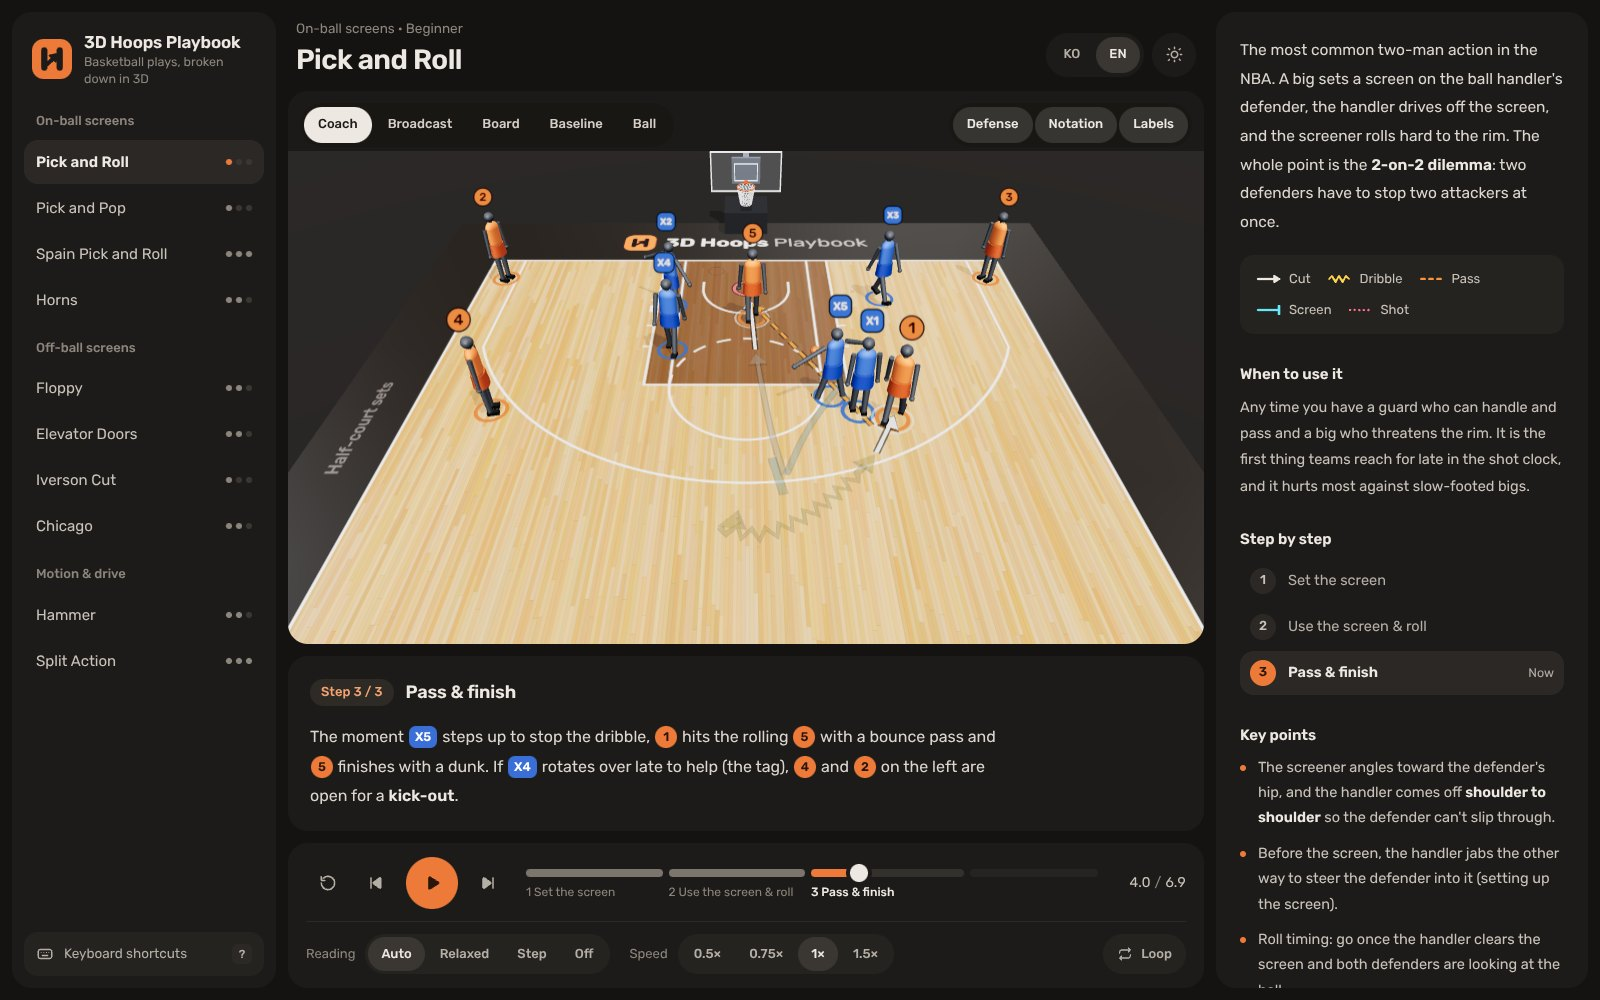
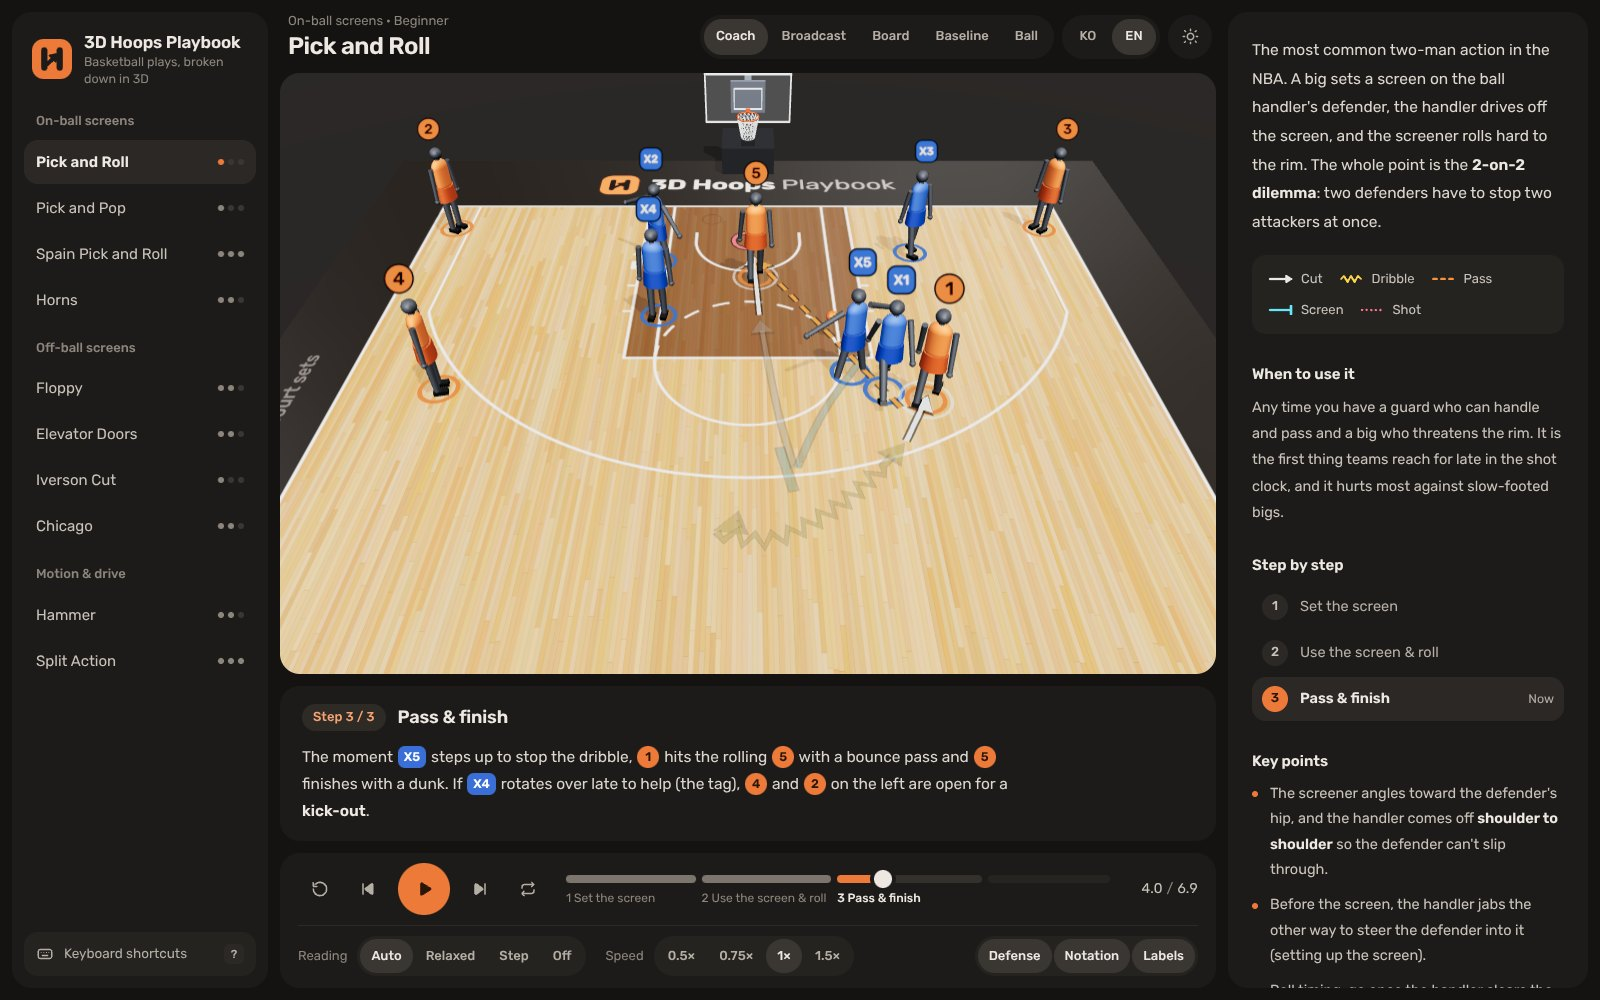
Give the 3D court its height back
The redesign shrank the court canvas by 20-47% (1440x900: 534 -> 423px,
1366x768: 402 -> 241px, phone: 439 -> 234px) because of the camera strip
above the canvas, a taller caption and controls, and a width-based phone
viewport.

- Move the camera switch back into the header row and the display
  toggles into the settings row; nothing overlaps the court.
- Loop becomes an icon toggle next to the playback buttons.
- Compact header (smaller title, meta hidden at <=1280px), caption and
  controls; slightly narrower side panels at <=1440px.
- Phone viewport is 52vh again, as before the redesign; long play
  titles wrap instead of being cut off.

Court height now: 1440x900 528px, 1366x768 396px, 1280x800 383px,
phone 439px.

Claude-Session: https://claude.ai/code/session_011vAZbn45stQ4uPhr3cHpNs

diff --git a/css/style.css b/css/style.css
@@ -26,12 +26,6 @@
   --seg-on-shadow: none;
   --tseg-on: #3a3632;
   --tseg-on-text: #ede8e1;
-  --overlay: rgba(24, 22, 20, 0.82);
-  --overlay-text: #d4cec6;
-  --overlay-off: #8c857c;
-  --overlay-on: #ede8e1;
-  --overlay-on-text: #1d1b19;
-  --overlay-toggle: rgba(237, 232, 225, 0.14);
   --track: #34302c;
   --track-done: #7c756d;
   --track-tail: #262421;
@@ -72,12 +66,6 @@
   --seg-on-shadow: 0 1px 2px rgba(30, 29, 27, 0.14);
   --tseg-on: #1e1d1b;
   --tseg-on-text: #ffffff;
-  --overlay: rgba(255, 255, 255, 0.9);
-  --overlay-text: #3a3835;
-  --overlay-off: #6f6b65;
-  --overlay-on: #1e1d1b;
-  --overlay-on-text: #ffffff;
-  --overlay-toggle: #ebe9e5;
   --track: #e3e1dd;
   --track-done: #8e8a84;
   --track-tail: #eceae7;
@@ -120,7 +108,7 @@ kbd {
 
 #app {
   display: grid;
-  grid-template-columns: 264px minmax(0, 1fr) 372px;
+  grid-template-columns: 256px minmax(0, 1fr) 360px;
   gap: 12px;
   padding: 12px;
   height: 100vh;
@@ -136,7 +124,7 @@ kbd {
   white-space: nowrap; transition: background-color 150ms var(--ease), color 150ms var(--ease);
 }
 .seg button:hover { color: var(--text); }
-.seg button.on { background: var(--seg-on); color: var(--seg-on-text); box-shadow: var(--seg-on-shadow); }
+.seg button.on, .seg button[aria-pressed="true"] { background: var(--seg-on); color: var(--seg-on-text); box-shadow: var(--seg-on-shadow); }
 
 .round-btn {
   display: grid; place-items: center; width: 44px; height: 44px; flex: none; border-radius: 50%;
@@ -185,35 +173,25 @@ kbd {
 #stage { display: flex; flex-direction: column; gap: 12px; min-width: 0; min-height: 0; }
 
 .toolbar {
-  display: flex; align-items: flex-end; justify-content: space-between; gap: 16px;
-  padding: 6px 8px 2px;
+  display: flex; align-items: center; justify-content: space-between; gap: 8px 16px;
+  padding: 0 4px 0 8px;
 }
 .play-head { min-width: 0; }
-.play-meta { margin: 0; font-size: 13.5px; color: var(--text-3); }
-.play-head h2 { margin: 2px 0 0; font-size: 28px; font-weight: 600; letter-spacing: -0.02em; line-height: 1.25; }
+.play-meta { margin: 0; font-size: 13px; line-height: 1.4; color: var(--text-3); }
+.play-head h2 { margin: 1px 0 0; font-size: 24px; font-weight: 600; letter-spacing: -0.02em; line-height: 1.25; white-space: nowrap; overflow: hidden; text-overflow: ellipsis; }
 .tool-right { display: flex; align-items: center; gap: 8px; }
 .toolbar .seg { padding: 4px; background: var(--panel); }
 .toolbar .seg button { min-height: 36px; min-width: 44px; padding: 0 12px; }
 .toolbar .seg button.on { background: var(--tseg-on); color: var(--tseg-on-text); box-shadow: none; }
 
-/* 3D 뷰 카드: 위쪽 띠에 카메라 / 표시 옵션, 그 아래 캔버스.
-   띠와 캔버스 배경이 같은 색이라 버튼이 코트 위에 떠 있는 것처럼 보이지만 선수를 가리지 않는다. */
+/* 3D 뷰 카드: 코트 위에는 아무 컨트롤도 올리지 않는다 (모서리 선수를 가리지 않도록) */
 .view {
-  flex: 1; min-height: 0; display: flex; flex-direction: column;
+  position: relative; flex: 1; min-height: 0;
   border-radius: var(--r-xl); overflow: hidden; background: var(--scene);
   transition: background-color 250ms var(--ease);
 }
-#viewport { position: relative; flex: 1; min-height: 0; overflow: hidden; background: var(--scene); }
-#viewport canvas { position: absolute; inset: 0; display: block; width: 100%; height: 100%; touch-action: none; }
-.view-tools { order: -1; display: flex; flex-wrap: wrap; align-items: flex-start; gap: 8px; padding: 12px 12px 4px; }
-.view-tools .seg { padding: 4px; background: var(--overlay); }
-.view-tools .seg button { min-height: 36px; padding: 0 14px; color: var(--overlay-text); }
-.view-tools .seg button:hover { color: var(--text); }
-.cam-bar button.on { background: var(--overlay-on); color: var(--overlay-on-text); box-shadow: none; }
-.cam-bar button.on:hover { color: var(--overlay-on-text); }
-.toggles { margin-left: auto; }
-.toggles button[aria-pressed="true"] { background: var(--overlay-toggle); color: var(--text); }
-.toggles button[aria-pressed="false"] { color: var(--overlay-off); text-decoration: line-through; text-decoration-thickness: 1px; }
+#viewport { position: absolute; inset: 0; overflow: hidden; }
+#viewport canvas { display: block; width: 100%; height: 100%; touch-action: none; }
 
 #score-pop {
   position: absolute; left: 50%; top: 36%; transform: translate(-50%, -50%) scale(0.7);
@@ -230,7 +208,7 @@ kbd {
 #loading.hide { opacity: 0; pointer-events: none; }
 
 /* 설명(캡션) */
-#caption { padding: 18px 22px 20px; min-height: 132px; }
+#caption { padding: 14px 22px 16px; min-height: 112px; }
 .cap-top { display: flex; align-items: center; gap: 12px; min-height: 36px; flex-wrap: wrap; }
 .cap-step {
   flex: none; padding: 3px 11px; border-radius: 999px; background: var(--accent-soft);
@@ -253,7 +231,7 @@ kbd {
 }
 #btn-skip:hover { filter: brightness(1.12); }
 #btn-skip kbd { background: var(--panel); }
-#cap-text { margin: 12px 0 0; color: var(--text-body); font-size: 16px; line-height: 1.85; max-width: 68ch; }
+#cap-text { margin: 8px 0 0; color: var(--text-body); font-size: 15.5px; line-height: 1.75; max-width: 72ch; }
 #cap-text b, .summary b, .block b, .bullets b { color: var(--text); font-weight: 600; }
 
 /* 문장 속 선수 칩 */
@@ -265,7 +243,7 @@ kbd {
 .pc.d { background: var(--def); color: #fff; border-radius: 7px; min-width: 26px; }
 
 /* 재생 컨트롤 */
-.controls { display: flex; flex-direction: column; gap: 12px; padding: 14px 18px; }
+.controls { display: flex; flex-direction: column; gap: 10px; padding: 10px 18px 12px; }
 #transport { display: flex; align-items: center; gap: 16px; }
 .t-buttons { display: flex; gap: 4px; align-items: center; }
 .icon {
@@ -276,6 +254,8 @@ kbd {
 .icon:hover { background: var(--raised); color: var(--text); }
 .icon.play { width: 52px; height: 52px; background: var(--accent); color: var(--on-accent); margin: 0 4px; }
 .icon.play:hover { background: var(--accent); color: var(--on-accent); transform: scale(1.04); }
+.icon.loop svg { width: 18px; height: 18px; }
+.icon.loop[aria-pressed="true"] { background: var(--accent-soft); color: var(--accent-text); }
 
 .timeline { position: relative; flex: 1; min-width: 160px; height: 40px; cursor: pointer; touch-action: none; }
 .tl-segs { position: absolute; inset: 0; display: flex; gap: 6px; }
@@ -302,18 +282,13 @@ kbd {
 /* 재생 설정 */
 #settings {
   display: flex; align-items: center; gap: 10px 20px; flex-wrap: wrap;
-  padding-top: 12px; border-top: 1px solid var(--line);
+  padding-top: 10px; border-top: 1px solid var(--line);
 }
+#settings .seg button { padding: 0 11px; }
+.toggles { margin-left: auto; }
+.toggles button[aria-pressed="false"] { color: var(--text-3); text-decoration: line-through; text-decoration-thickness: 1px; }
 .set-group { display: flex; align-items: center; gap: 10px; }
 .set-label { font-size: 13px; color: var(--text-3); white-space: nowrap; }
-.loop-btn {
-  margin-left: auto; display: inline-flex; align-items: center; gap: 8px; min-height: 40px; padding: 0 14px;
-  border-radius: 999px; background: var(--seg); color: var(--text-2); font-size: 13px; font-weight: 500;
-  transition: background-color 150ms var(--ease), color 150ms var(--ease);
-}
-.loop-btn svg { width: 16px; height: 16px; }
-.loop-btn:hover { color: var(--text); }
-.loop-btn[aria-pressed="true"] { background: var(--accent-soft); color: var(--accent-text); }
 
 /* ───────── Info panel ───────── */
 #info { overflow-y: auto; padding: 24px 24px 28px; min-height: 0; }
@@ -372,9 +347,13 @@ kbd {
 .keys-list dd { margin: 0; font-size: 14px; color: var(--text-sub); }
 
 /* ───────── Responsive ───────── */
-@media (max-width: 1360px) {
-  #app { grid-template-columns: 240px minmax(0, 1fr) 340px; }
-  .view-tools .seg button { padding: 0 11px; }
+@media (max-width: 1440px) {
+  #app { grid-template-columns: 236px minmax(0, 1fr) 328px; }
+  .toolbar .cam-bar button { padding: 0 10px; }
+}
+@media (max-width: 1280px) {
+  .play-meta { display: none; }
+  .play-head h2 { font-size: 22px; }
 }
 @media (max-width: 1100px) {
   #app { display: flex; flex-direction: column; height: auto; }
@@ -394,25 +373,23 @@ kbd {
   .play-item:hover { background: var(--raised-2); }
   .play-item.active, .play-item.active:hover { background: var(--text); color: var(--bg); font-weight: 500; }
   .view { flex: none; height: 60vh; min-height: 320px; }
+  .toolbar { padding: 0 4px; }
+  .play-meta { display: block; }
   #info { overflow: visible; padding: 22px 18px 28px; }
 }
 @media (max-width: 680px) {
   #app { gap: 10px; }
   .brand-sub { display: none; }
   .brand-mark { width: 34px; height: 34px; }
-  .toolbar { padding: 2px 4px 0; align-items: center; }
-  .play-head h2 { font-size: 22px; }
-  .view { height: auto; min-height: 0; gap: 8px; overflow: visible; border-radius: 0; background: none; }
-  #viewport { flex: none; height: 60vw; min-height: 220px; border-radius: 18px; }
-  .view-tools {
-    order: 0; flex-wrap: nowrap; overflow-x: auto; scrollbar-width: none;
-    margin: 0 -12px; padding: 0 12px;
-  }
-  .view-tools::-webkit-scrollbar { display: none; }
-  .view-tools .seg { flex: none; background: var(--panel); }
+  .toolbar { flex-wrap: wrap; }
+  .play-head { flex: 1; }
+  .play-head h2 { font-size: 22px; white-space: normal; }
+  .tool-right { display: contents; }
+  .toolbar .cam-bar { order: 3; flex: 1 0 100%; overflow-x: auto; scrollbar-width: none; }
+  .toolbar .cam-bar::-webkit-scrollbar { display: none; }
+  .toolbar .cam-bar button { flex: 1 0 auto; padding: 0 10px; }
+  .view { height: 52vh; min-height: 300px; border-radius: 18px; }
   .toggles { margin-left: 0; }
-  .toggles button[aria-pressed="true"] { background: var(--raised-2); }
-  .cam-bar button.on { background: var(--tseg-on); color: var(--tseg-on-text); }
   #caption { padding: 14px 16px 16px; border-radius: 18px; }
   #cap-title { font-size: 16.5px; }
   #cap-text { font-size: 15px; line-height: 1.75; }
@@ -426,7 +403,6 @@ kbd {
   .time { min-width: 0; }
   #settings { gap: 10px 16px; }
   .set-group { width: 100%; justify-content: space-between; }
-  .loop-btn { margin-left: 0; }
   #score-pop { font-size: 64px; }
 }
 @media (prefers-reduced-motion: reduce) {

diff --git a/index.html b/index.html
@@ -83,6 +83,13 @@
           <h2 id="hud-title"></h2>
         </div>
         <div class="tool-right">
+          <div class="seg cam-bar" role="group" data-i18n-aria="aria.camera">
+            <button data-cam="coach" class="on" data-i18n="cam.coach" data-i18n-title="cam.coach.t"></button>
+            <button data-cam="broadcast" data-i18n="cam.broadcast" data-i18n-title="cam.broadcast.t"></button>
+            <button data-cam="top" data-i18n="cam.top" data-i18n-title="cam.top.t"></button>
+            <button data-cam="baseline" data-i18n="cam.baseline" data-i18n-title="cam.baseline.t"></button>
+            <button data-cam="follow" data-i18n="cam.follow" data-i18n-title="cam.follow.t"></button>
+          </div>
           <div class="seg lang-bar" role="group" data-i18n-aria="aria.lang">
             <button data-lang="ko" title="한국어" lang="ko">KO</button>
             <button data-lang="en" title="English" lang="en">EN</button>
@@ -95,20 +102,6 @@
         <div id="viewport">
           <div id="score-pop" aria-live="polite"></div>
           <div id="loading" data-i18n="loading"></div>
-        </div>
-        <div class="view-tools">
-          <div class="seg cam-bar" role="group" data-i18n-aria="aria.camera">
-            <button data-cam="coach" class="on" data-i18n="cam.coach" data-i18n-title="cam.coach.t"></button>
-            <button data-cam="broadcast" data-i18n="cam.broadcast" data-i18n-title="cam.broadcast.t"></button>
-            <button data-cam="top" data-i18n="cam.top" data-i18n-title="cam.top.t"></button>
-            <button data-cam="baseline" data-i18n="cam.baseline" data-i18n-title="cam.baseline.t"></button>
-            <button data-cam="follow" data-i18n="cam.follow" data-i18n-title="cam.follow.t"></button>
-          </div>
-          <div class="seg toggles" role="group" data-i18n-aria="aria.display">
-            <button id="tg-def" aria-pressed="true" data-i18n="tg.def" data-i18n-title="tg.def.t"></button>
-            <button id="tg-notes" aria-pressed="true" data-i18n="tg.notes" data-i18n-title="tg.notes.t"></button>
-            <button id="tg-labels" aria-pressed="true" data-i18n="tg.labels" data-i18n-title="tg.labels.t"></button>
-          </div>
         </div>
       </div>
 
@@ -135,6 +128,7 @@
             <button id="btn-prev" class="icon" data-i18n-title="btn.prev.t" data-i18n-aria="aria.prev"><svg><use href="#i-prev" /></svg></button>
             <button id="btn-play" class="icon play" data-i18n-title="btn.play.t"><svg><use href="#i-play" /></svg></button>
             <button id="btn-next" class="icon" data-i18n-title="btn.next.t" data-i18n-aria="aria.next"><svg><use href="#i-next" /></svg></button>
+            <button id="tg-loop" class="icon loop" aria-pressed="false" data-i18n-title="tg.loop.t" data-i18n-aria="tg.loop"><svg><use href="#i-loop" /></svg></button>
           </div>
           <div id="timeline" class="timeline" role="slider" tabindex="0" data-i18n-aria="aria.timeline" aria-valuemin="0" aria-valuemax="100" aria-valuenow="0">
             <div id="tl-segs" class="tl-segs"></div>
@@ -162,10 +156,11 @@
               <button data-v="1.5">1.5×</button>
             </div>
           </div>
-          <button id="tg-loop" class="loop-btn" aria-pressed="false" data-i18n-title="tg.loop.t">
-            <svg aria-hidden="true"><use href="#i-loop" /></svg>
-            <span data-i18n="tg.loop"></span>
-          </button>
+          <div class="seg toggles" role="group" data-i18n-aria="aria.display">
+            <button id="tg-def" aria-pressed="true" data-i18n="tg.def" data-i18n-title="tg.def.t"></button>
+            <button id="tg-notes" aria-pressed="true" data-i18n="tg.notes" data-i18n-title="tg.notes.t"></button>
+            <button id="tg-labels" aria-pressed="true" data-i18n="tg.labels" data-i18n-title="tg.labels.t"></button>
+          </div>
         </section>
       </div>
     </main>

diff --git a/docs/design.md b/docs/design.md
@@ -46,7 +46,7 @@
   - The 3D scene follows the theme too: background/fog, the apron around the court, the outer floor, and the floor lettering are redrawn from `SCENE_THEMES` in `court.js`.
 - Tokens live as CSS custom properties on `:root` and `:root[data-theme="light"]`. Radii: panels 20 px, inner blocks 14 px, controls 999 px. One accent (`#ee7a3a`) shared by offense chips, the play button, and the 3D jerseys; defense is `#3a6fd8` (`#2f64cf` in light).
 - Type: Rubik (rounded corners, used for Latin text and numbers, the wordmark, and canvas labels) with Pretendard for Korean (`word-break: keep-all`). Weights stay at 400–600.
-- Layout notes: camera and display toggles float over the court; the step list in the info panel shows titles only (the caption carries the full text); timeline segments are labeled with step names; the reading pause shows a ring countdown; keyboard shortcuts live in a popover (`?`).
+- Layout notes: nothing sits on top of the 3D court, so players in the corners are never covered. The camera switch shares the header row with the title and the language/theme controls; display toggles sit in the settings row; loop is an icon button next to the playback buttons. The floating-panel gaps cost some height, so the header, caption and controls are kept compact to leave the court about as tall as in the previous flush layout. The step list in the info panel shows titles only (the caption carries the full text); timeline segments are labeled with step names; the reading pause shows a ring countdown; keyboard shortcuts live in a popover (`?`).
 - Logo: two screens (vertical bars) with a cutter's route arrow slipping between them, forming an "H", on a rounded orange tile.
 
 ## Localization
